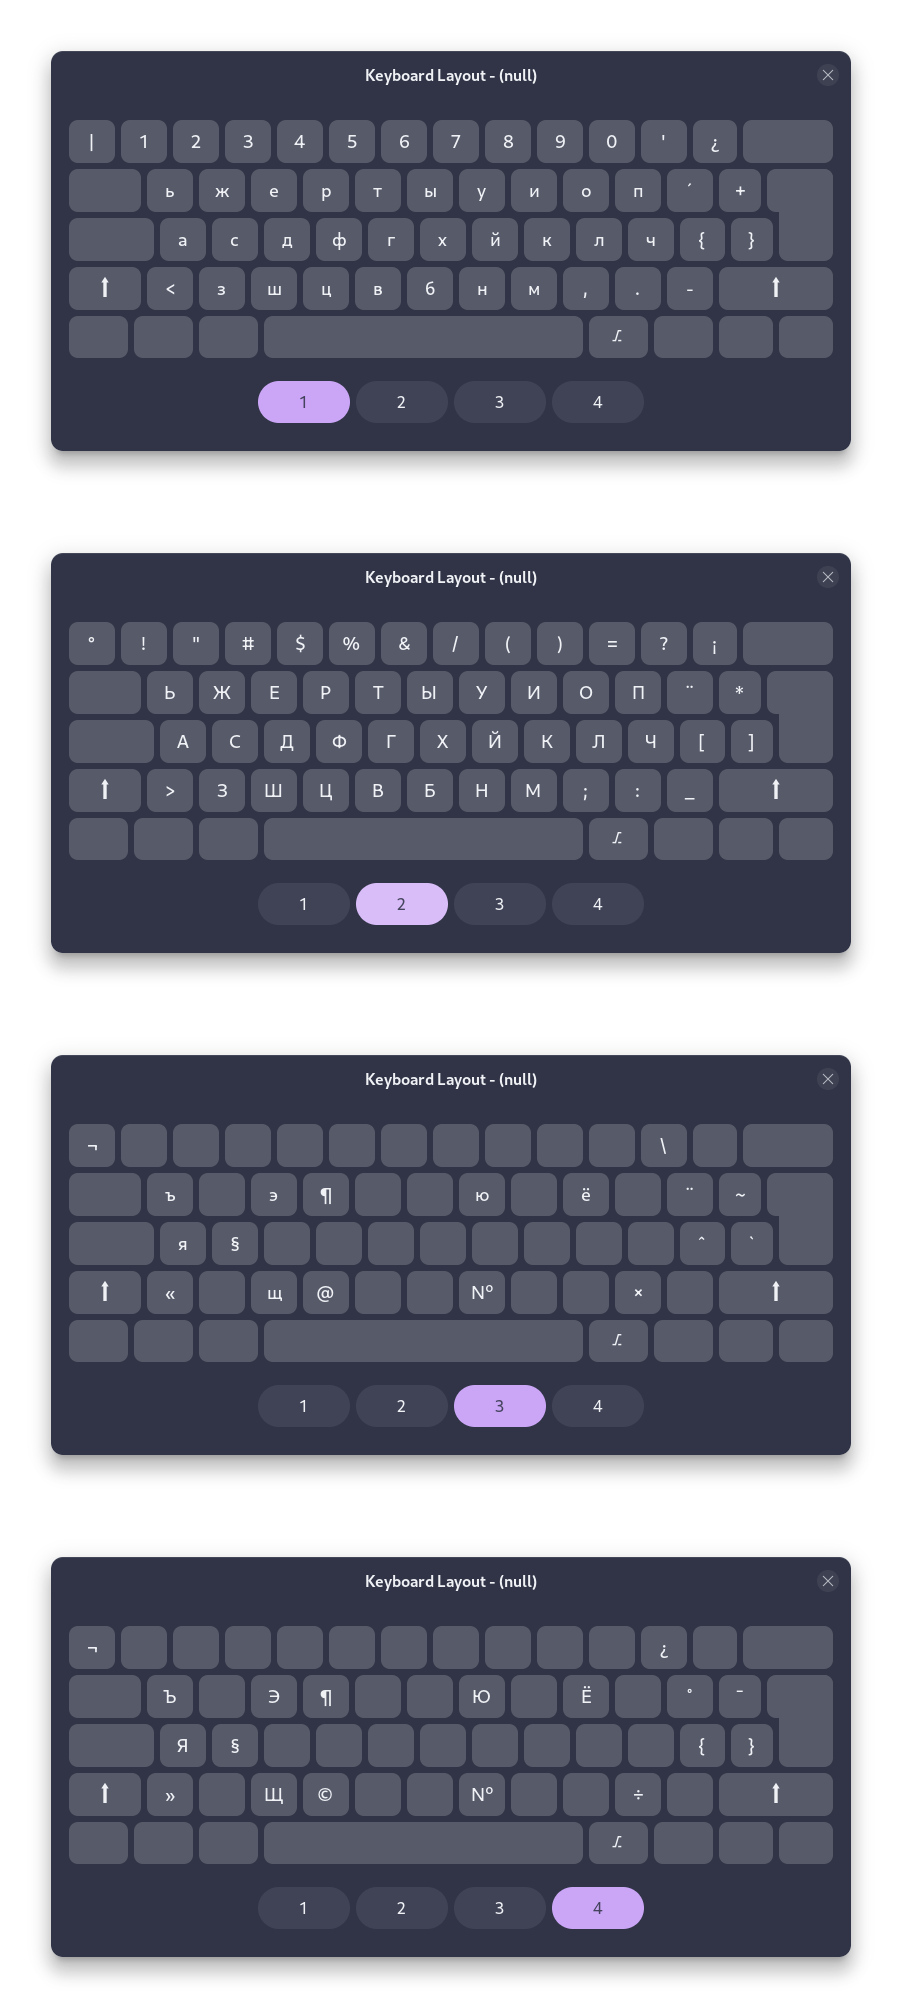
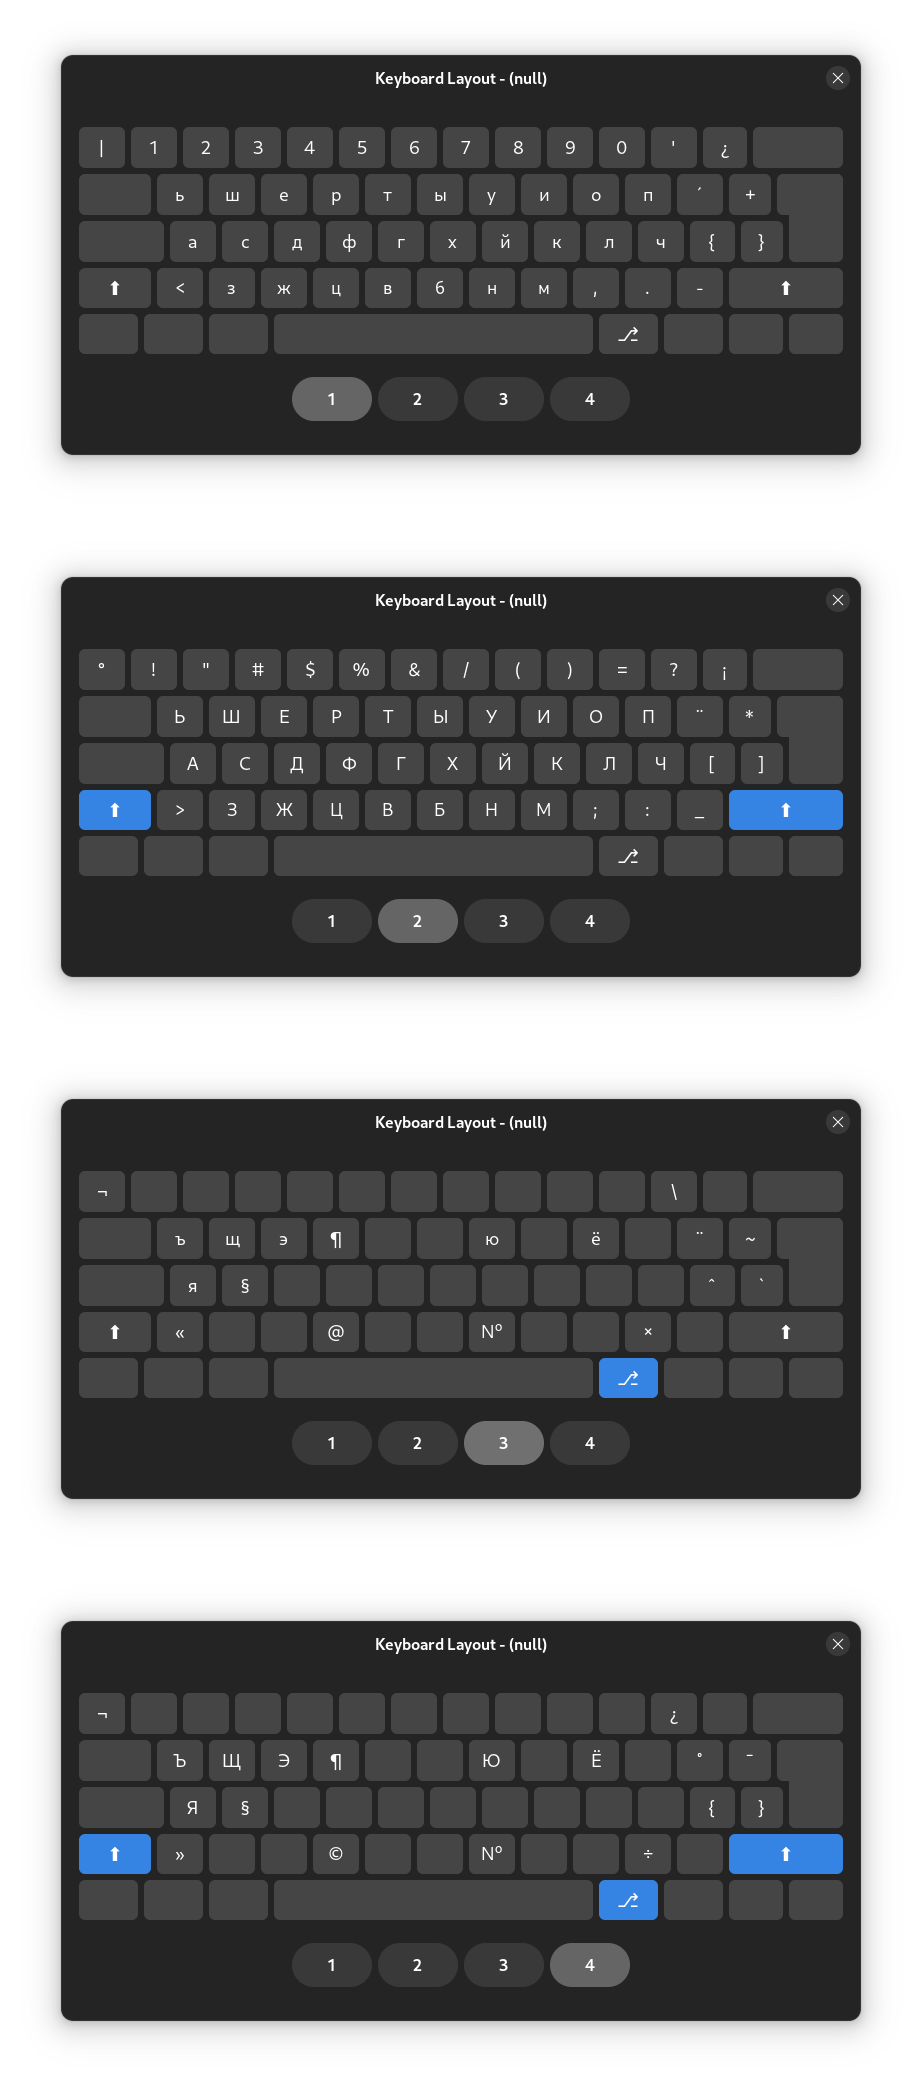
Поменял местами 'ж' и 'ш'. Убрал упоминание Colemak

diff --git a/README.md b/README.md
@@ -1,4 +1,4 @@
-Русская раскладка для клавиатур, обозначаемых как Spanish (Latin American Colemak).
+Русская раскладка для клавиатур, обозначаемых как Spanish (Latin American).
 Основана на Russian (Brazil, phonetic)
 Для XKB.
 
